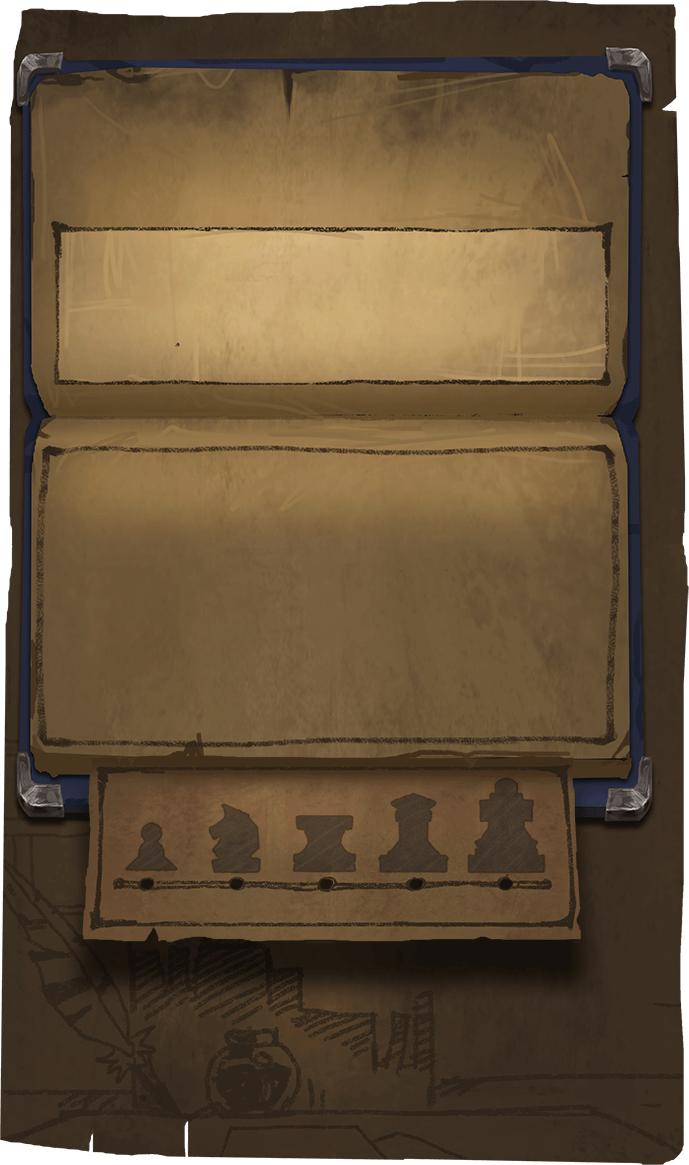
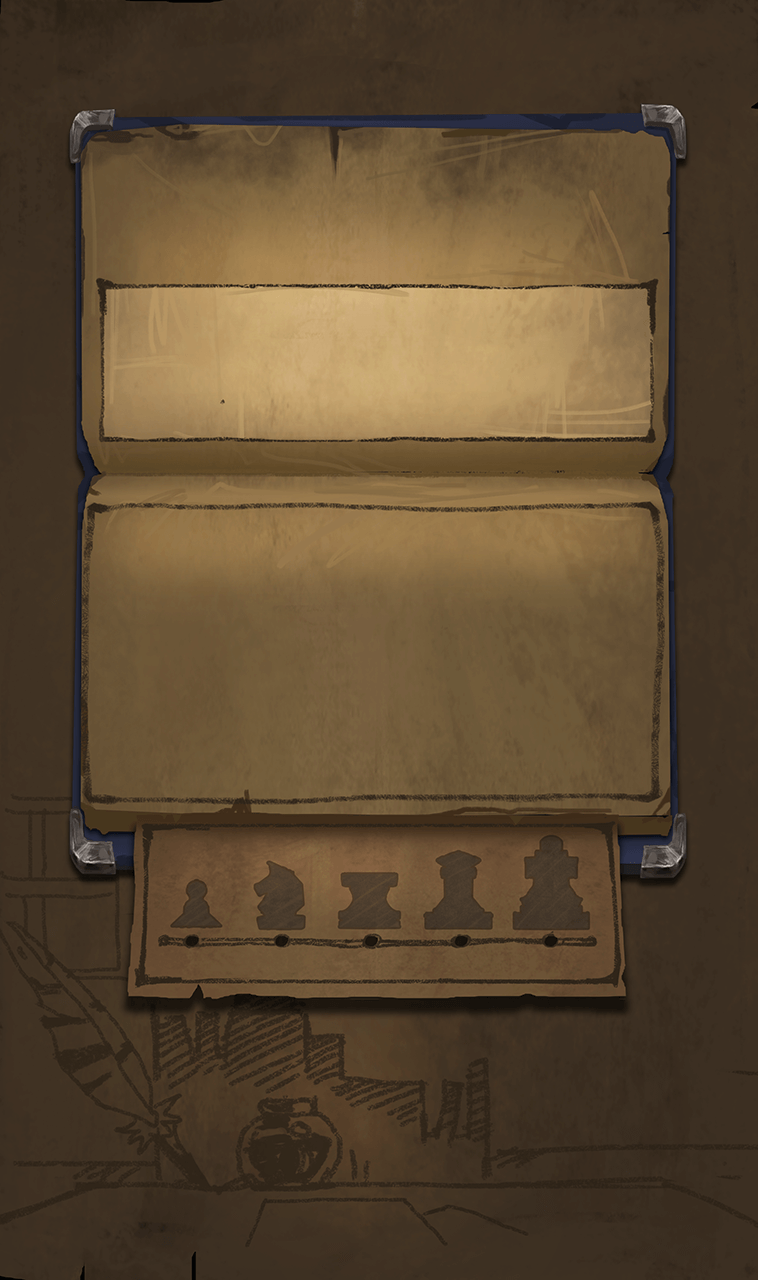
制作角色选择界面

diff --git a/client/src/view/OccupationSelView.ts b/client/src/view/OccupationSelView.ts
@@ -4,17 +4,18 @@ class OccupationSelView extends egret.DisplayObjectContainer {
     btnCancel:TextButtonWithBg; // 返回
     btnOk:TextButtonWithBg; // 确定
 
+    occAvatarBg:egret.Bitmap;
     occAvatar:egret.DisplayObjectContainer; // 当前选中职业头像
     occDesc:egret.TextField; // 当前选中职业描述
     occRelicImg:egret.Bitmap; // 职业技能图标
     occRelicDesc:egret.TextField; // 职业技能描述
-    occItemImg:egret.Bitmap; // 职业物品图标
-    occItemDesc:egret.TextField; // 职业物品描述
+    occPropImg:egret.Bitmap; // 职业物品图标
+    occPropDesc:egret.TextField; // 职业物品描述
 
     occAvatarBgLst:TextButtonWithBg[]; // 候选职业背景
     occAvatarLst:egret.DisplayObjectContainer[]; // 候选职业列表头像
 
-    diffImgLst:egret.Bitmap[]; // 难度图标
+    diffImgLst:TextButtonWithBg[]; // 难度图标
     diffFlagBg:egret.Bitmap; // 难度描述背景
     diffFlagDesc:egret.TextField; // 难度描述文字
 
@@ -43,6 +44,8 @@ class OccupationSelView extends egret.DisplayObjectContainer {
         });
 
         // 职业头像及物品技能信息
+        this.occAvatarBg = ViewUtils.createBitmapByName("occUnlockedBg_png");
+        this.occAvatarBg.name = "occAvatarBg";
         this.occAvatar = new egret.DisplayObjectContainer();
         this.occAvatar.name = "occAvatar";
         this.occDesc = new egret.TextField();
@@ -51,10 +54,10 @@ class OccupationSelView extends egret.DisplayObjectContainer {
         this.occRelicImg.name = "occRelicImg";
         this.occRelicDesc = new egret.TextField();
         this.occRelicDesc.name = "occRelicDesc";
-        this.occItemImg = new egret.Bitmap();
-        this.occItemImg.name = "occItemImg";
-        this.occItemDesc = new egret.TextField();
-        this.occItemDesc.name = "occItemDesc";
+        this.occPropImg = new egret.Bitmap();
+        this.occPropImg.name = "occPropImg";
+        this.occPropDesc = new egret.TextField();
+        this.occPropDesc.name = "occPropDesc";
 
         // 职业列表
         this.occAvatarBgLst = [];
@@ -73,9 +76,15 @@ class OccupationSelView extends egret.DisplayObjectContainer {
 
         // 难度列表
         this.diffImgLst = [];
-        // for (var i = 0; i < 5; i++) {
-        //     var img = ViewUtils.createBitmapByName("")
-        // }
+        for (var i = 0; i < 5; i++) {
+            var btn = new TextButtonWithBg("diffUnlocked" + (i + 1) + "_png");
+            btn.setDisableBg(undefined);
+            btn.enabled = false;
+            btn.name = "diff" + (i + 1);
+            let diff = i;
+            btn.onClicked = () => this.selDifficulty(diff);
+            this.diffImgLst.push(btn);
+        }
 
         this.diffFlagBg = ViewUtils.createBitmapByName("diffFlagBg_png");
         this.diffFlagBg.name = "diffFlagBg";
@@ -83,21 +92,13 @@ class OccupationSelView extends egret.DisplayObjectContainer {
         this.diffFlagDesc.name = "diffFlagDesc";
 
         var uis = [this.occAvatar, this.occDesc, this.occRelicImg, this.occRelicDesc, 
-            this.occItemImg, this.occItemDesc, ...this.occAvatarBgLst, ...this.occAvatarLst,
-            this.btnCancel, this.btnOk];
+            this.occPropImg, this.occPropDesc, ...this.occAvatarBgLst, ...this.occAvatarLst,
+            ...this.diffImgLst, this.btnCancel, this.btnOk];
 
         for (var ui of uis)
             this.addChild(ui);
 
         ViewUtils.multiLang(this, ...uis);
-
-        for (var i = 0; i < this.occAvatarLst.length; i++) {
-            var c = this.occAvatarLst[i];
-            var img = this.occAvatarBgLst[i];
-            c.width = img.width; c.height = img.height;
-            c.x = img.x + img.width / 2;
-            c.y = img.y + img.height / 2;
-        }
     }
 
     onClose;
@@ -105,6 +106,7 @@ class OccupationSelView extends egret.DisplayObjectContainer {
         ViewUtils.asFullBg(this.bg);
 
         this.setAvailableOccList(["Nurse", "Rogue"]);
+        this.setAvailableDiff(5);
         this.selOcc("Nurse");
         this.selDifficulty(0);
 
@@ -113,6 +115,13 @@ class OccupationSelView extends egret.DisplayObjectContainer {
                 resolve(r);
             };
         });
+    }
+
+    diffUnlocked;
+    setAvailableDiff(n) {
+        this.diffUnlocked = n;
+        for (var i = 0; i < this.diffImgLst.length; i++)
+            this.diffImgLst[i].enabled = i < this.diffUnlocked;
     }
 
     occArr;
@@ -129,9 +138,15 @@ class OccupationSelView extends egret.DisplayObjectContainer {
                     this.selOcc(occ);
                 };
 
-                let ske = ViewUtils.createSkeletonAni(occArr[i]);
-                ske.animation.play("Idle", 0);
-                this.occAvatarLst[i].addChild(ske.display);
+                // let ske = ViewUtils.createSkeletonAni(occArr[i]);
+                // ske.animation.play("Idle", 0);
+                // this.occAvatarLst[i].addChild(ske.display);
+                var c = this.occAvatarLst[i];
+                let occImg = ViewUtils.createBitmapByName(occArr[i] + "_png");
+                occImg.width = c.width;
+                occImg.height = c.height;
+                occImg.x = occImg.y = 0;
+                c.addChild(occImg);
             }
             else
                 this.occAvatarBgLst[i].enabled = false;
@@ -148,13 +163,31 @@ class OccupationSelView extends egret.DisplayObjectContainer {
                 this.occAvatarBgLst[i].setTexName("occUnlockedBg_png");
         }
 
+        // 头像
         this.occAvatar.removeChildren();
         var ske = ViewUtils.createSkeletonAni(occ);
         ske.animation.play("Idle", 0);
         this.occAvatar.addChild(ske.display);
+
+        // 职业描述
+        var mlCfg = ViewUtils.languageCfg;
+        var curCfg = mlCfg.occupations;
+        var desc = curCfg[occ]["desc"][mlCfg.currentLanguage];
+        this.occDesc.textFlow = ViewUtils.fromHtml(desc);
+        
+        // 初始物品
+        var initialItems = Occupation.getInitialItems(occ);
+        ViewUtils.setTexName(this.occRelicImg, initialItems["relic"] + "_png");
+        this.occRelicDesc.textFlow = ViewUtils.fromHtml(ViewUtils.getElemNameAndDesc(initialItems["relic"]).initialDesc);
+        ViewUtils.setTexName(this.occPropImg, initialItems["prop"] + "_png");
+        this.occPropDesc.textFlow = ViewUtils.fromHtml(ViewUtils.getElemNameAndDesc(initialItems["prop"]).initialDesc);
     }
     
     selDifficulty(d:number) {
         this.difficultyDegree = d;
+        for (var i = 0; i < this.diffUnlocked; i++)
+            this.diffImgLst[i].setTexName("diffUnlocked" + (i+1) + "_png");
+
+        this.diffImgLst[d].setTexName("diffSel" + (d+1) + "_png");
     }
 }

diff --git a/common/logic/player/Occupation.ts b/common/logic/player/Occupation.ts
@@ -13,6 +13,14 @@ class Occupation {
         "Nurse": Occupation.makeNurse,
         "Rogue": Occupation.makeRogue,
     }
+
+    // 获取各职业初始物品配置
+    public static getInitialItems(occ:string) {
+        return {
+            "Nurse": {"relic": "MedicineBox", "prop":"HpPotion", "prop4All": "HpPotion"},
+            "Rogue": {"relic": "MedicineBox", "prop":"HpPotion", "prop4All": "HpPotion"}
+        }[occ];
+    }
     
     // 护士
     static makeNurse(p:Player):Player {

diff --git a/client/src/view/ViewUtils.ts b/client/src/view/ViewUtils.ts
@@ -217,7 +217,7 @@ class ViewUtils {
         var curCfg = mlCfg.tips;
         return curCfg[key][mlCfg.currentLanguage];
     }
-
+    
     // 创建一批图像对象并赋值
     public static createImgs(view:egret.DisplayObjectContainer, varNames:string[], texNames:string[]) {
         Utils.assert(varNames.length == texNames.length, "var nubmer mismatched the tex number");

diff --git a/server/srvmain.go b/server/srvmain.go
@@ -96,16 +96,19 @@ func stServer(ps string) {
 		} else if (ps == "st.t") {
 			stKeys, _ := dbc.HKeys(uid).Result()
 			var firstStartDate = -1;
+			var firstStartMonth = -1;
 			for j := 0; j < len(stKeys); j++ {
 				stKey := stKeys[j];
 				if (len(stKey) > 8 && stKey[:8] == "st.2018/") {
 					startTimeStr := stKey[3:];
 					startDateStr := startTimeStr[8:10];
 					startDate, _ := strconv.Atoi(startDateStr);
+					startMonth, _ := strconv.Atoi(startTimeStr[5:7]);
 					if (firstStartDate == -1) {
 						firstStartDate = startDate;
-					} else if (startDate != firstStartDate) {
-						fmt.Println(uidStr + ", " + strconv.Itoa(firstStartDate) + "," + strconv.Itoa(startDate));
+						firstStartMonth = startMonth;
+					} else if (startMonth != firstStartMonth || startDate != firstStartDate) {
+						fmt.Println(uidStr + ", " + strconv.Itoa(firstStartMonth) + "-" + strconv.Itoa(firstStartDate) + "," + strconv.Itoa(startMonth) + "-" + strconv.Itoa(startDate));
 						break;
 					}
 				}
